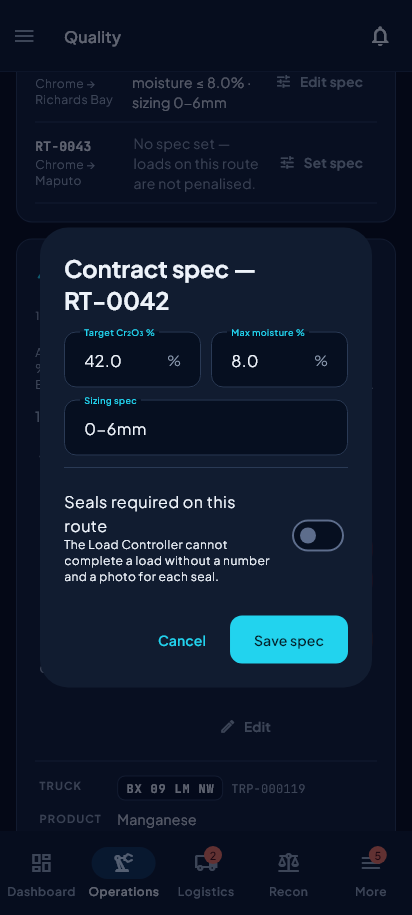
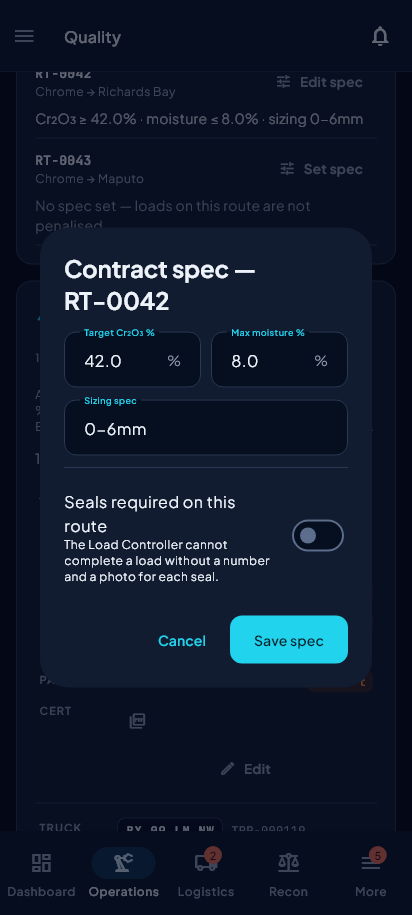
fix(quality): a route's contract spec stacks on a phone
At 411dp and text 1.3 the route code broke mid-code and the spec sentence
ran to five lines in a narrow column.

diff --git a/lib/features/portal/screens/mine_quality_screen.dart b/lib/features/portal/screens/mine_quality_screen.dart
@@ -101,7 +101,7 @@ class MineQualityScreen extends ConsumerWidget {
                     return Column(
                       children: [
                         for (final s in specs)
-                          _RouteSpecTile(spec: s, companyId: companyId),
+                          RouteSpecTile(spec: s, companyId: companyId),
                       ],
                     );
                   },
@@ -124,77 +124,89 @@ class MineQualityScreen extends ConsumerWidget {
   }
 }
 
-class _RouteSpecTile extends ConsumerWidget {
+/// One route's contract spec. Public only so its phone layout can be tested.
+@visibleForTesting
+class RouteSpecTile extends ConsumerWidget {
   final RouteQualitySpec spec;
   final String companyId;
-  const _RouteSpecTile({required this.spec, required this.companyId});
+  const RouteSpecTile({super.key, required this.spec, required this.companyId});
+
+  /// Below this the three columns stack: the spec sentence takes its own row.
+  ///
+  /// On the S25 (411dp, text 1.3) the card left the route a ~97px column, so
+  /// `RT-9F7B5BA3` broke mid-code and "No spec set — loads on this route are
+  /// not penalised." ran to five lines beside it (walk, 2026-10-25).
+  static const stackBelow = 480.0;
 
   @override
   Widget build(BuildContext context, WidgetRef ref) {
     final semantic = MlSemantic.of(context);
+    final route = Column(
+      crossAxisAlignment: CrossAxisAlignment.start,
+      children: [
+        Text(
+          spec.routeNumber ?? 'Route',
+          style: context.mlText.code(
+            color: semantic.textStrong,
+            size: 13,
+            weight: FontWeight.w700,
+          ),
+        ),
+        Text(
+          [
+            if (spec.commodity != null) spec.commodity!,
+            if (spec.offloadingPoint != null) '→ ${spec.offloadingPoint!}',
+          ].join(' '),
+          // TWO lines: commodity AND destination. At one line "Chrome →
+          // Richards Bay" lost the destination, which is the half that
+          // distinguishes one of this mine's route specs from another.
+          maxLines: 2,
+          overflow: TextOverflow.ellipsis,
+          style: context.mlText.bodySmall.copyWith(color: semantic.textMuted),
+        ),
+      ],
+    );
+    final specText = Text(
+      spec.hasSpec
+          ? [
+              if (spec.specCr2o3Pct != null) 'Cr₂O₃ ≥ ${spec.specCr2o3Pct}%',
+              if (spec.specMoistureMaxPct != null)
+                'moisture ≤ ${spec.specMoistureMaxPct}%',
+              if (spec.specSizing != null) 'sizing ${spec.specSizing}',
+            ].join(' · ')
+          : 'No spec set — loads on this route are not penalised.',
+      style: context.mlText.bodyMedium.copyWith(
+        color: spec.hasSpec ? semantic.textBody : semantic.textFaint,
+      ),
+    );
+    final button = MlButton.ghost(
+      label: spec.hasSpec ? 'Edit spec' : 'Set spec',
+      icon: Icons.tune_rounded,
+      compact: true,
+      onPressed: () => _editSpec(context, ref),
+    );
     return Container(
       padding: const EdgeInsets.symmetric(vertical: 10),
       decoration: BoxDecoration(
         border: Border(bottom: BorderSide(color: semantic.divider)),
       ),
-      child: Row(
-        children: [
-          Expanded(
-            flex: 3,
-            child: Column(
-              crossAxisAlignment: CrossAxisAlignment.start,
-              children: [
-                Text(
-                  spec.routeNumber ?? 'Route',
-                  style: context.mlText.code(
-                    color: semantic.textStrong,
-                    size: 13,
-                    weight: FontWeight.w700,
-                  ),
-                ),
-                Text(
-                  [
-                    if (spec.commodity != null) spec.commodity!,
-                    if (spec.offloadingPoint != null)
-                      '→ ${spec.offloadingPoint!}',
-                  ].join(' '),
-                  // TWO lines: commodity AND destination, in a 97px column on
-                  // a phone. At one line "Chrome → Richards Bay" lost the
-                  // destination, which is the half that distinguishes one of
-                  // this mine's route specs from another.
-                  maxLines: 2,
-                  overflow: TextOverflow.ellipsis,
-                  style: context.mlText.bodySmall.copyWith(
-                    color: semantic.textMuted,
-                  ),
-                ),
-              ],
-            ),
-          ),
-          Expanded(
-            flex: 4,
-            child: Text(
-              spec.hasSpec
-                  ? [
-                      if (spec.specCr2o3Pct != null)
-                        'Cr₂O₃ ≥ ${spec.specCr2o3Pct}%',
-                      if (spec.specMoistureMaxPct != null)
-                        'moisture ≤ ${spec.specMoistureMaxPct}%',
-                      if (spec.specSizing != null) 'sizing ${spec.specSizing}',
-                    ].join(' · ')
-                  : 'No spec set — loads on this route are not penalised.',
-              style: context.mlText.bodyMedium.copyWith(
-                color: spec.hasSpec ? semantic.textBody : semantic.textFaint,
+      child: LayoutBuilder(
+        builder: (context, box) => box.maxWidth < stackBelow
+            ? Column(
+                crossAxisAlignment: CrossAxisAlignment.start,
+                children: [
+                  Row(children: [Expanded(child: route), button]),
+                  const SizedBox(height: 6),
+                  specText,
+                ],
+              )
+            : Row(
+                children: [
+                  Expanded(flex: 3, child: route),
+                  Expanded(flex: 4, child: specText),
+                  button,
+                ],
               ),
-            ),
-          ),
-          MlButton.ghost(
-            label: spec.hasSpec ? 'Edit spec' : 'Set spec',
-            icon: Icons.tune_rounded,
-            compact: true,
-            onPressed: () => _editSpec(context, ref),
-          ),
-        ],
       ),
     );
   }

diff --git a/test/features/portal/quality_route_spec_phone_test.dart b/test/features/portal/quality_route_spec_phone_test.dart
@@ -1,0 +1,75 @@
+// A route's contract spec reads on a phone (S25 walk, 2026-10-25): the card
+// gave the route a ~97px column, so `RT-9F7B5BA3` broke mid-code and "No spec
+// set — loads on this route are not penalised." ran to five lines beside it.
+import 'package:flutter/material.dart';
+import 'package:flutter_riverpod/flutter_riverpod.dart';
+import 'package:flutter_test/flutter_test.dart';
+
+import 'package:flutter_application_1/core/theme/app_theme.dart';
+import 'package:flutter_application_1/features/portal/models/load_quality.dart';
+import 'package:flutter_application_1/features/portal/screens/mine_quality_screen.dart';
+
+import '../../test_helpers/real_fonts.dart';
+
+const _spec = RouteQualitySpec(
+  routeId: 'r1',
+  routeNumber: 'RT-9F7B5BA3',
+  commodity: 'Coal',
+  offloadingPoint: 'maputo',
+);
+
+Future<void> _pump(WidgetTester tester, double width) async {
+  tester.view.physicalSize = Size(width, 900);
+  tester.view.devicePixelRatio = 1.0;
+  addTearDown(tester.view.reset);
+  await tester.pumpWidget(ProviderScope(
+    child: MaterialApp(
+      theme: AppTheme.darkTheme,
+      home: MediaQuery(
+        data: MediaQueryData(
+            size: Size(width, 900), textScaler: const TextScaler.linear(1.3)),
+        child: Scaffold(
+          // The page gutter plus the card's padding, as on the phone.
+          body: Padding(
+            padding: const EdgeInsets.symmetric(horizontal: 36),
+            child: Column(children: const [
+              RouteSpecTile(spec: _spec, companyId: 'c1'),
+            ]),
+          ),
+        ),
+      ),
+    ),
+  ));
+  await tester.pumpAndSettle();
+}
+
+double _lineHeight(WidgetTester tester, String text) =>
+    tester.getSize(find.text(text)).height;
+
+void main() {
+  setUpAll(loadRealFonts);
+
+  testWidgets('411dp at 1.3: the code keeps one line, the sentence two at most',
+      (tester) async {
+    await _pump(tester, 411);
+    expect(tester.takeException(), isNull);
+    final code = _lineHeight(tester, 'RT-9F7B5BA3');
+    final sentence =
+        _lineHeight(tester, 'No spec set — loads on this route are not penalised.');
+    // One line of the 13px code at 1.3 is well under 30px; a break doubles it.
+    expect(code, lessThan(30), reason: 'the route code broke onto two lines');
+    expect(sentence, lessThan(code * 3),
+        reason: 'the spec sentence is squeezed into a narrow column');
+    expect(find.text('Set spec'), findsOneWidget);
+  });
+
+  testWidgets('a wide card keeps the three columns side by side',
+      (tester) async {
+    await _pump(tester, 1000);
+    final code = tester.getRect(find.text('RT-9F7B5BA3'));
+    final sentence = tester.getRect(
+        find.text('No spec set — loads on this route are not penalised.'));
+    expect(sentence.left, greaterThan(code.right),
+        reason: 'on a wide card the spec sits beside the route');
+  });
+}
